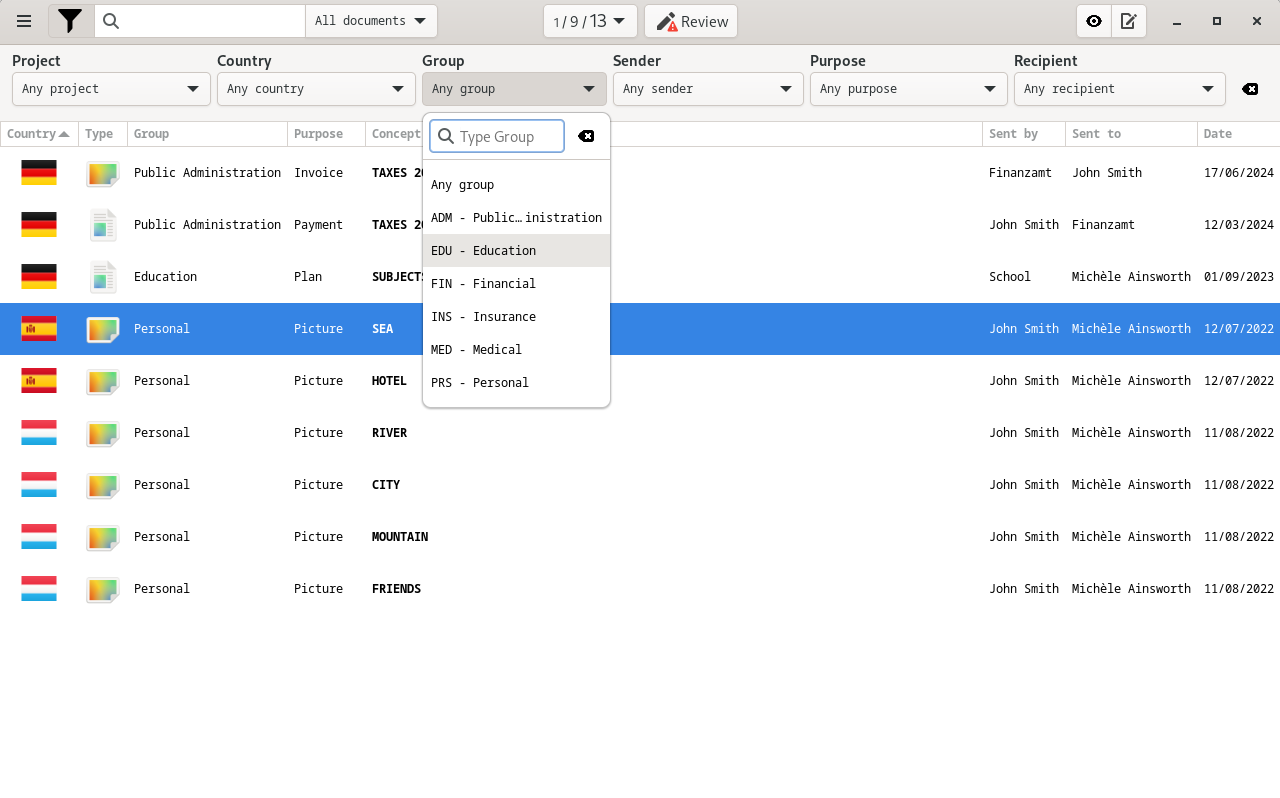
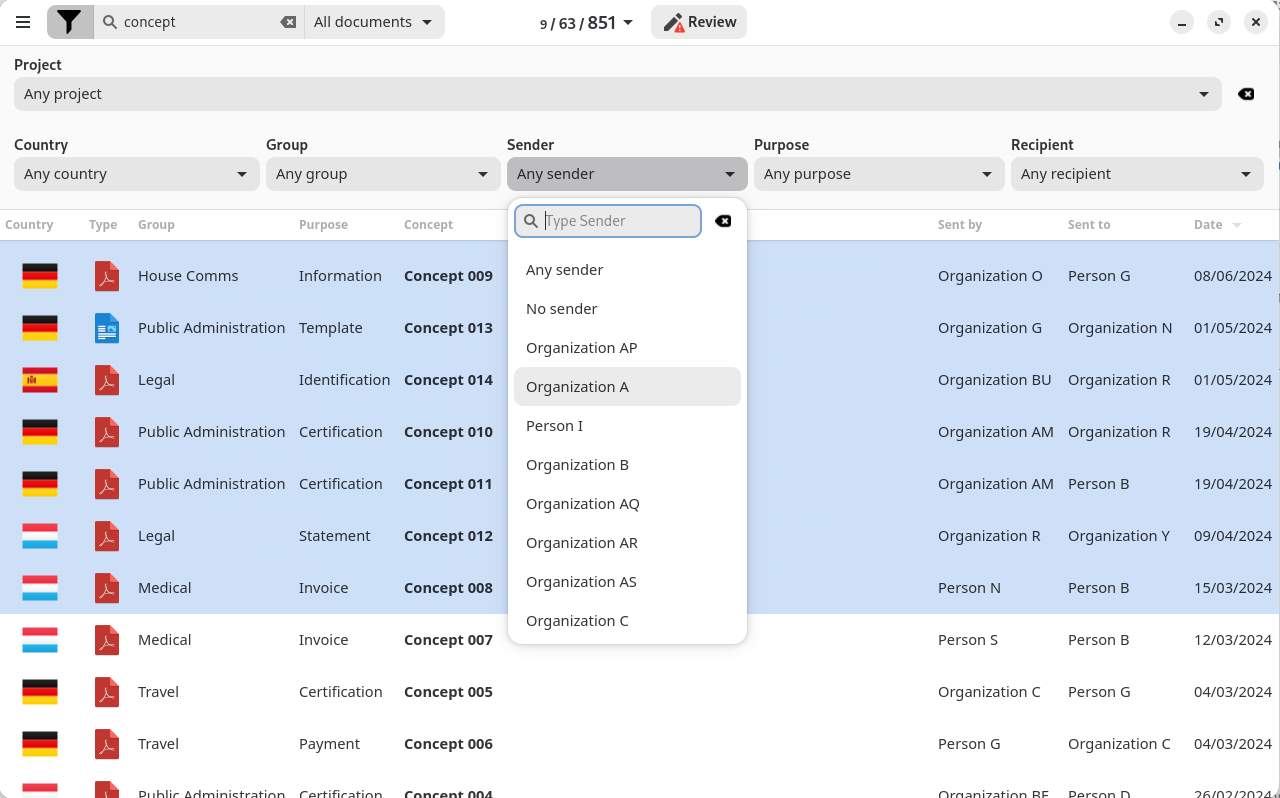
docs: Update README and screenshots

diff --git a/data/docs/README.md b/data/docs/README.md
@@ -1,50 +1,26 @@
 # MiAZ, a Personal Document Organizer
 
+![About MiAZ](data/mkt/miaz-about.png)
+
 ## About MiAZ
 
-Sometimes, it is quite a challenge to keep the documentation of the family, schools, administration, billing, etc... well organized in terms of classification, disk space, time to do it and effort.
+Managing documentation for family records, school files, institutional paperwork, and billing can often feel like an overwhelming task.
+From organizing and classifying to finding the necessary time, and putting in the effort, it’s a constant balancing act.
+As someone who has lived a life split across borders, I’ve experienced firsthand how complex it can be to keep everything in order.
 
+MiAZ app aims to solve this problem with minimal effort.
 
-MiAZ app aims to solve this problem: with minimal effort, it is possible to have all paperwork organized.
-
-
-A little effort means: scan letters, donwload attachments from emails, place it in the right MiAZ repository directory, and edit the filename according to a set of fixed rules, like choosing:
+Minimal effort means: scan postal letters, donwload attachments from emails, and process them with MiAZ by setting:
 
 - Country,
 - Date,
 - Group
 - Purpose
+- Concept
 - Sender
 - Receiver
 
-MiAZ helps you comply with these rules effortlessly.
-
-**Disclaimer**: please, take into account that this project is based solely in my own experience and for my own necesities.
-
-## Changelog
-
-### [0.1.0-rc1] - 2024-08-21
-
-First Release Candidate for version 0.1
-
-### Added
-- N/A
-
-### Changed
-- Reduce log level verbosity (from DEBUG to TRACE)
-
-### Deprecated
-- N/A
-
-### Removed
-- N/A
-
-### Fixed
-- Add missing icons for date and concept actionrows in Rename dialog
-- Do not raise error when disabling an already disabled plugin
-
-### Security
-- N/A
+MiAZ helps you to organize your documents effortlessly with predefined values.
 
 ## Features
 
@@ -64,9 +40,9 @@ First Release Candidate for version 0.1
 
 All documents managed by MiAZ are renamed following this name convention consisting on 7 fields:
 
-`{timestamp}-{country}-{group}-{sentby}-{purpose}-{concept}-{sentto}.{extension}`
+`{date}-{country}-{group}-{sentby}-{purpose}-{concept}-{sentto}`
 
-* **Timestamp**: with format: %Y%m%d (eg.: 20221119)
+* **Date**: with format: %Y%m%d (eg.: 20221119)
 * **Country**: ISO-3166 Alpha-2 code (eg.: ES for Spain)
 * **Group**: root category to which any document belongs to with a similar purpose. Eg.: HOU (Housing), EDU (Education), FIN (Finances), ADM (Public Admon.) and so on.
 * **Purpose**: Type of document. Eg.: INF (Informative), REQ (Request), INV (Invoice), etc...
@@ -76,80 +52,65 @@ All documents managed by MiAZ are renamed following this name convention consist
 
 Notes:
 
-* Each field is separated by a hyphen (`-`). Only 6 hyphens are allowed. Extra hyphens found in a field are automatically converted to underscores (`_`)
-* The timestamp format helps to sort documents easily in a file browser or even in a terminal
-* Filename fields correspond to the key. If the configuration is lost for any reason, you'll have to figure out what the key stands for. So, try to use meaninful keys whenever you can.
+* Each field is separated by a hyphen (`-`).
+* The date format helps to sort documents easily in a file browser or even in a terminal.
+* Filename fields correspond to keys.
 
 ## Get started
 
 ### Requirements
 
-MiAZ has been developed under Linux in Python with GTK4 and GObject libraries.
-The base for development is always the last Debian stable version, so it should be compatible with newer distros like Ubuntu or Fedora.
+MiAZ has been developed under Linux in Python/GObject/GTK/Libadwaita libraries:
+- Python > 3.9
+- GObject > 3.50.0
+- GTK >= 4.10
+- Libadwaita >= 1.6
 
-At this moment, I haven't released any initial version, neither there is a .deb, .rpm, flatpack or snap package for an easy installation.
 
-It must be installed from source.
-
-**meson** and **ninja** must be already installed in your system.
 
 ### Installation
 
-sudo make install
+* Developers:
+** Download sources: `git clone https://github.com/t00m/MiAZ`
+** Installation: `./scripts/install/local/install_user.sh`
+** Uninstallation: `./scripts/uninstall/uninstall_user.sh`
 
-### Uninstallation
+Please note that **meson** and **ninja** must be already installed in your system
 
-sudo make uninstall
+* Users:
+** Installation/Uninstallation from Flatpak repositories: not available yet.
 
-### Troubleshooting
-
-Sometimes, because of a bad development decision of mine, software installation can be broken.
-
-Usually, to fix any problem with MiAZ, the environment must be cleaned by:
-
-- deleting all contents in /usr/share/MiAZ
-
-If you installed the software by using PIP (which is also possible), you have to make sure you delete any version deployed.
 
 ### Need help?
 
-Raise an issue, please.
+Please, raise an [issue](https://github.com/t00m/MiAZ/issues) in MiAZ Github repository:
 
 
 ## Screenshots
 
-![Workspace](data/mkt/miaz-workspace.png)
+![Workspace](data/docs/screenshots/MiAZ-Worskpace.png)
 
-![Manage countries](data/mkt/miaz-country-selector.png)
+![Repository settings](data/docs/screenshots/MiAZ-repository-settings.png)
 
-![Manage groups](data/mkt/miaz-projects-selector.png)
+![Main menu](data/docs/screenshots/MiAZ-Workspace-menu.png)
 
-![Manage purposes](data/mkt/miaz-purposes-selector.png)
+![Plugins](data/docs/screenshots/MiAZ-settings-plugins.png)
 
-![Manage senders and recipients](data/mkt/miaz-people-selector.png)
+![Filters](data/docs/screenshots/MiAZ-Workspace-filters.png)
 
-![Workspace menu](data/mkt/miaz-workspace-menu.png)
 
-![Add documents from several sources](data/mkt/miaz-workspace-menu-add-new.png)
-
-![Mass renaming](data/mkt/miaz-workspace-menu-mass-renaming.png)
-
-![Projects management](data/mkt/miaz-workspace-menu-projectmgt.png)
-
-![Plugins Export to directory](data/mkt/miaz-plugin-export2dir.png)
-
-![Single rename](data/mkt/miaz-editor.png)
-
-![Plugins](data/mkt/miaz-plugin-system.png)
-
-![About](data/mkt/miaz-about.png)
 
 
 ## About me
 
-Hi, this is Tomás Vírseda. I was born in Spain, and lived half life there, working now in Luxembourg, and living in Germany.
-I work as a SAP Basis Administrator, use GNU/Linux in a daily basis, and I love to develop just for fun, mostly with Python.
-Do not hesitate to contact me for whatever reason.
+Hi, I'm Tomás Vírseda. Originally from Spain, where I spent half of my life, I now work in Luxembourg and live in Germany.
+
+I’m a SAP Basis Administrator with a passion for technology. I use GNU/Linux daily and enjoy programming in my free time, primarily with Python, as a way to explore new ideas and solve problems.
+
+Feel free to reach out—I’m always open to connecting and collaborating!
+
+mailto:tomas.virseda@gmail.com
+
 
 ## Caution
 
